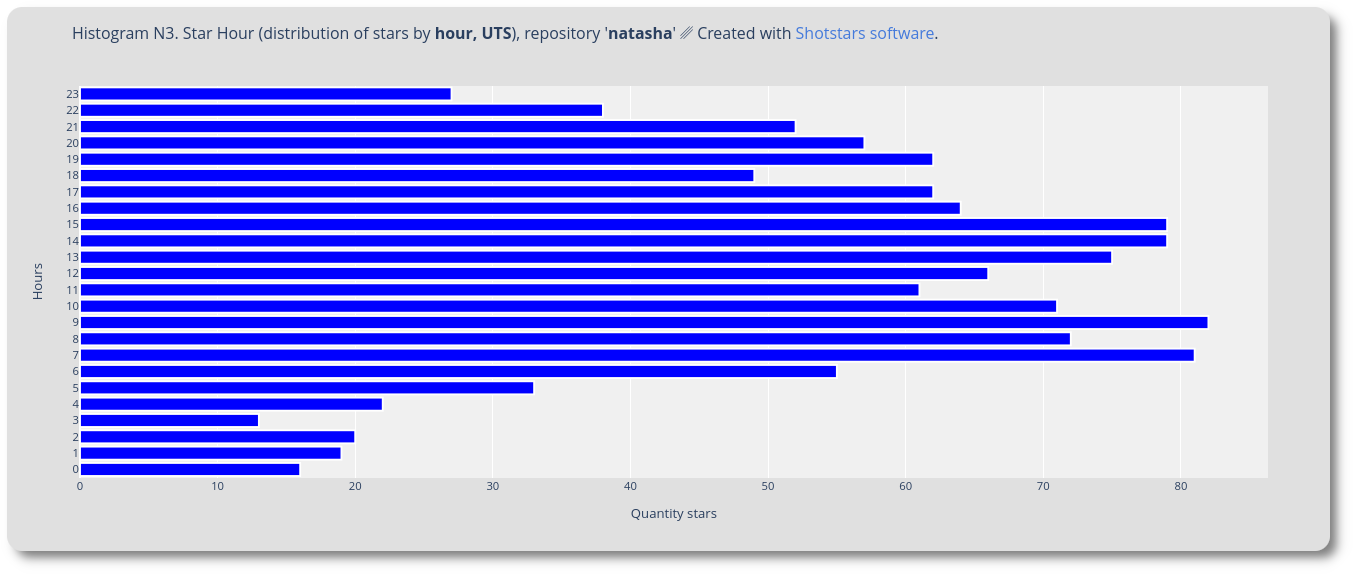
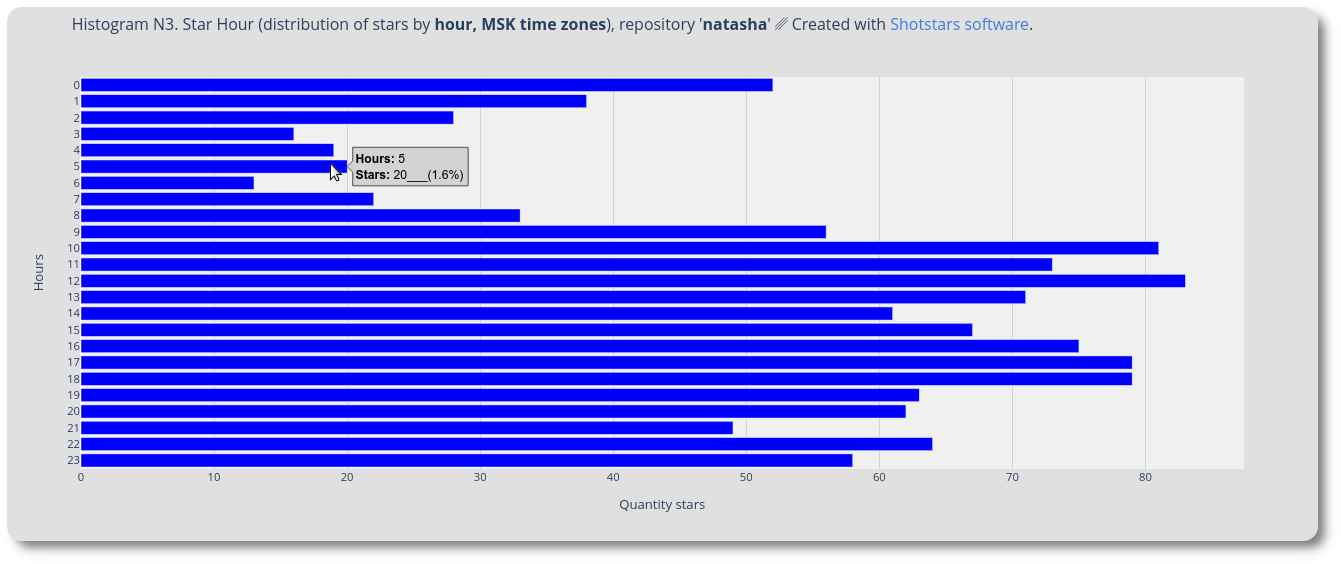
new version 4.6
— In the Html report, a counter also appeared on the 'open graph' button for calculating
gone stars, for example '0' means the graph was not created, and not an error when opening
the browser tab.

— Added a new histogram to the HTML report: cumulative "day of week" star set.

— Added a new metric to the CLI: 'Most-of-stars-d.w. / Smallest-of-stars-d.w.'.

— Reverse of the "Y" scale in the "star hour" histogram, the reason is unification:
the "star hour" and "star day" histograms are read from top to bottom.

— Added percentage calculation to all histograms when selecting a column.

— Added small banner for compressed CLI.

— An Easter egg has been added to the software.
(If you try to parse something related to the project itself as a goal, then...)

diff --git a/shotstars/shotstars.py b/shotstars/shotstars.py
@@ -16,6 +16,7 @@ import signal
 import statistics
 import subprocess
 import sys
+import textwrap
 import time
 import webbrowser
 
@@ -36,7 +37,7 @@ local_tzone = time.tzname[time.localtime().tm_isdst]
 Android = True if hasattr(sys, 'getandroidapilevel') else False
 Windows = True if sys.platform == 'win32' else False
 Linux = True if Android is False and Windows is False else False
-__version__ = "v4.5a2"
+__version__ = "v4.6"
 
 
 if os.get_terminal_size().columns > 100 and os.get_terminal_size().lines > 34:
@@ -74,13 +75,18 @@ SSSSSSS     S:::::S  t::::::tttt:::::ta::::a    a:::::a r:::::r            s::::
 S::::::SSSSSS:::::S  tt::::::::::::::ta:::::aaaa::::::a r:::::r            s::::::::::::::s
 S:::::::::::::::SS     tt:::::::::::tt a::::::::::aa:::ar:::::r             s:::::::::::ss
  SSSSSSSSSSSSSSS         ttttttttttt    aaaaaaaaaa  aaaarrrrrrr              sssssssssss"""
-else:
+elif os.get_terminal_size().columns > 49:
     banner = r"""
  ____  _           _     ____  _
 / ___|| |__   ___ | |_  / ___|| |_ __ _ _ __ ___
 \___ \| '_ \ / _ \| __| \___ \| __/ _` | '__/ __|
  ___) | | | | (_) | |_   ___) | || (_| | |  \__ \
 |____/|_| |_|\___/ \__| |____/ \__\__,_|_|  |___/"""
+else:
+    banner = r"""
+ __           __           
+(_ |_  _ _|_ (_ _|_ _. _ _ 
+__)| )(_) |_ __) |_(_|| _)"""
 
 
 # Функции...
@@ -114,7 +120,7 @@ def main_cli():
                 try:
                     r_east = requests.get(url="https://pepy.tech/projects/shotstars?timeRange=threeMonths&category=version" + \
                                               "&includeCIDownloads=true&granularity=daily&viewType=line", 
-                                          headers = {'User-Agent': f'Mozilla/5.0 (X11; Linux x86_64; rv:' + \
+                                          headers = {'User-Agent': 'Mozilla/5.0 (X11; Linux x86_64; rv:' + \
                                                      f'{random.randint(119, 127)}.0) Gecko/20100101 Firefox/121.0'}, timeout=7)
 
                     r_east_ = re.search(r'totalDownloads\\":(\d+)', r_east.text)
@@ -126,8 +132,8 @@ def main_cli():
                                       justify="center")
                         print('')
                 except Exception as e:
-                    console.print(f"[bold red][!] Network connection failure (Internet Censorship?),\n" + \
-                                  f"    unable to receive data.\n\nexit.[/bold red]")
+                    format_message1 = '[!] Network connection failure (Internet Censorship?), unable to receive data. Exit.'
+                    console.print(f"[bold red]{format_text(format_message1)}[/bold red]")
             shutil.rmtree(path, ignore_errors=True)
             win_exit()
         if url_repo.lower() == "history" or url_repo.lower() == "his":
@@ -196,6 +202,9 @@ def screen_banner():
 
     console.print(f"[yellow]{banner}[/yellow]\n{__version__}, author: https://github.com/snooppr\n")
 
+
+def format_text(text):
+    return textwrap.fill(text, width=os.get_terminal_size()[0], subsequent_indent=" " * 4)
 
 def cross_user_detect(base_users):
     """
@@ -292,7 +301,9 @@ def calc_stars(aggregated_data):
     return dates_for_plot, counts_for_plot
 
 
-def generate_plots(aggregated_data, source_filename, months_stars, years_stars, hours_stars, mean_year, mean_days, dif_date):
+def generate_plots(aggregated_data, source_filename, day_week_stars,
+                   months_stars, years_stars, hours_stars,
+                   mean_year, mean_days, dif_date):
     """Генерация CLI и HTML графиков"""
     if not aggregated_data:
         return None
@@ -308,8 +319,9 @@ def generate_plots(aggregated_data, source_filename, months_stars, years_stars, 
 # График для CLI.
     if Windows:
         if base_filename == 'all_new_stars.html':
-            console.print(f"\n[yellow][!] The graph in CLI is built only for OS: GNU/Linux; macOS and Android/Termux.\n" + \
-                          f"    See graph in HTML report.[/yellow]\n")
+            format_message2 = "[!] The graph in CLI is built only for OS: GNU/Linux; macOS and Android/Termux. " + \
+                              "See graph in HTML report."
+            console.print(f"\n[yellow]{format_text(format_message2)}[/yellow]\n")
     else:
         try:
             plt_cli.clear_figure()
@@ -389,40 +401,70 @@ def generate_plots(aggregated_data, source_filename, months_stars, years_stars, 
                                width=None, height=None)
 
             x, y = map(list, zip(*months_stars))
-            fig3 = plt_html.Figure([plt_html.Bar(y=y, x=x, name='Month', opacity=0.90,
-                                    marker=dict(color='orange', line=dict(color='black', width=2)))])
+            perc_m = [round((p / sum(y)) * 100, 1) for p in y]
+            fig3 = plt_html.Figure([plt_html.Bar(y=y, x=x, name='Month', opacity=0.90, customdata=perc_m,
+                                                 hovertemplate=("<b>Month:</b> %{x}<br><b>Stars:</b> %" + \
+                                                                "{y}___(%{customdata}%)<extra></extra>"),
+                                                 marker=dict(color='orange', line=dict(color='grey', width=2)))])
 
             fig3.update_layout(title=f"Histogram N1. Cumulative set of stars by <b>month</b>, repository '<b>{repo}</b>' " + \
                                      f"␥ Created with <a href='https://github.com/snooppr/shotstars'>Shotstars software</a>.",
                                xaxis_title="Month", yaxis_title="Quantity stars",
+                               hoverlabel=dict(bgcolor='lightgray', font_color='black'),
                                plot_bgcolor=plot_bgcolor, paper_bgcolor=paper_bgcolor)
 
             x, y = map(list, zip(*years_stars))
-            fig4 = plt_html.Figure([plt_html.Bar(y=y, x=x, name='Year',
-                                   marker=dict(color='orange', line=dict(color='grey', width=4)))])
+            perc_y = [round((p / sum(y)) * 100, 1) for p in y]
+            fig4 = plt_html.Figure([plt_html.Bar(y=y, x=x, name='Year', customdata=perc_y,
+                                                 hovertemplate=("<b>Year:</b> %{x}<br><b>Stars:</b> %" + \
+                                                                "{y}___(%{customdata}%)<extra></extra>"),
+                                                 hoverlabel=dict(bgcolor='lightgray', font_color='black'),
+                                                 marker=dict(color='#ff9200', line=dict(color='black', width=4)))])
 
             if dif_date > 365:
                 fig4.add_trace(plt_html.Scatter(x=x, y=[mean_year] * len(x), mode='lines',
-                               name=f'mean = {round(mean_year, 1)} stars / year',
-                               line=dict(color='red', width=3)))
+                                                name=f'mean = {round(mean_year, 1)} stars / year',
+                                                line=dict(color='red', width=3)))
 
             fig4.update_layout(title=f"Histogram N2. Cumulative set of stars by <b>year</b>, repository '<b>{repo}</b>' " + \
                                      f"␥ Created with <a href='https://github.com/snooppr/shotstars'>Shotstars software</a>.",
                                xaxis_title="Year", yaxis_title="Quantity stars", xaxis=dict(dtick=1, tickmode='linear'),
+                               hoverlabel=dict(bgcolor='lightgray', font_color='black'),
                                barmode='overlay', plot_bgcolor=plot_bgcolor, paper_bgcolor=paper_bgcolor)
 
 
             x, y = map(list, zip(*hours_stars))
-            fig5 = plt_html.Figure([plt_html.Bar(y=x, x=y, name='Hours', orientation='h',
-                                    hovertemplate=("Hours: %{y}<br>Stars: %{x}<extra></extra>"),
-                                    marker=dict(color='blue'))])
+            perc_h = [round((p / sum(y)) * 100, 1) for p in y]
+            fig5 = plt_html.Figure([plt_html.Bar(y=x, x=y, name='Hours', orientation='h', customdata=perc_h,
+                                                 hovertemplate=("<b>Hours:</b> %{y}<br><b>Stars:</b> %" + \
+                                                                "{x}___(%{customdata}%)<extra></extra>"),
+                                                 marker=dict(color='blue'))])
 
             fig5.update_layout(title=f"Histogram N3. Star Hour (distribution of stars by <b>hour, {local_tzone} time zones</b>), " + \
                                      f"repository '<b>{repo}</b>' " + \
                                      f"␥ Created with <a href='https://github.com/snooppr/shotstars'>Shotstars software</a>.",
-                               xaxis_title="Quantity stars", yaxis_title="Hours", yaxis=dict(dtick=1, tickmode='linear'),
+                               xaxis_title="Quantity stars", yaxis_title="Hours",
+                               yaxis=dict(dtick=1, tickmode='linear', autorange='reversed'),
                                xaxis=dict(gridcolor='lightgray'),
+                               hoverlabel=dict(bgcolor='lightgray', font_color='black'),
                                plot_bgcolor=plot_bgcolor, paper_bgcolor=paper_bgcolor)
+
+
+            x, y = map(list, zip(*day_week_stars))
+            perc_dw = [round((p / sum(y)) * 100, 1) for p in y]
+            fig6 = plt_html.Figure([plt_html.Bar(y=x, x=y, name='Day of the week', orientation='h', customdata=perc_dw,
+                                                 hovertemplate=("<b>Day of the week:</b> %{y}<br><b>Stars:</b> %" + \
+                                                                "{x}___(%{customdata}%)<extra></extra>"),
+                                                 marker=dict(color='#4e00ff'))])
+
+            fig6.update_layout(title=f"Histogram N4. Star Day (distribution of stars by <b>day of the week</b>), " + \
+                                     f"repository '<b>{repo}</b>' " + \
+                                     f"␥ Created with <a href='https://github.com/snooppr/shotstars'>Shotstars software</a>.",
+                               xaxis_title="Quantity stars", yaxis_title="day of the week",
+                               yaxis=dict(dtick=1, tickmode='linear', autorange='reversed'),
+                               xaxis=dict(gridcolor='lightgray'),
+                               hoverlabel=dict(bgcolor='lightgray', font_color='black'),
+                               plot_bgcolor=plot_bgcolor, paper_bgcolor=paper_bgcolor)      
 
 
             plot_html = fig.to_html(full_html=False, include_plotlyjs=False)
@@ -430,6 +472,7 @@ def generate_plots(aggregated_data, source_filename, months_stars, years_stars, 
             plot_html3 = fig3.to_html(full_html=False, include_plotlyjs=False)
             plot_html4 = fig4.to_html(full_html=False, include_plotlyjs=False)
             plot_html5 = fig5.to_html(full_html=False, include_plotlyjs=False)
+            plot_html6 = fig6.to_html(full_html=False, include_plotlyjs=False)
 
             with open(f"{path}/graph_{base_filename}", 'w', encoding='utf-8') as f:
                 f.write(f"""
@@ -475,6 +518,10 @@ def generate_plots(aggregated_data, source_filename, months_stars, years_stars, 
 
     <div class="plot-container">
         {plot_html5}
+    </div>
+
+    <div class="plot-container">
+        {plot_html6}
     </div>
 </body>
 </html>""")
@@ -966,24 +1013,35 @@ def parsing(diff=False):
         marketing_color = none_statistic
         fuckstars = none_statistic
 
-## Расчет месяцев с самым высоким и низким трафиком по звездам / Расчет по годам.
+## Расчет периодов с самым высоким и низким трафиком по звездам.
+    days_of_week = ["Monday", "Tuesday", "Wednesday", "Thursday",
+                    "Friday", "Saturday", "Sunday"]
     months = ["Jan", "Feb", "Mar", "Apr", "May", "Jun",
               "Jul", "Aug", "Sep", "Oct", "Nov", "Dec"]
+
+    day_week_sum = defaultdict(int)
     month_sum = defaultdict(int)
     years_sum = defaultdict(int)
+
     for date_str, _star in sort_alldate_stars:
         dt = datetime.datetime.strptime(date_str, '%Y-%m-%d')
+        day_week_number = dt.weekday()
         month_number = dt.month
         year_number = dt.year
         month_sum[month_number] += _star
         years_sum[year_number] += _star
+        day_week_sum[day_week_number] += _star
 
+    cnt_day_week_sum = Counter(day_week_sum)
     cnt_month_sum = Counter(month_sum)
     cnt_year_sum = Counter(years_sum)
+    high_stars_day_week = days_of_week[cnt_day_week_sum.most_common()[0][0]]
+    low_stars_day_week = days_of_week[cnt_day_week_sum.most_common()[-1][0]]
     high_stars_month = months[cnt_month_sum.most_common()[0][0] - 1]
     low_stars_month = months[cnt_month_sum.most_common()[-1][0] - 1]
 
-# Data для 3-го графика.
+# Data для n-го графика.
+    day_week_stars = [(days_of_week[dw_], s_) for dw_, s_ in sorted(day_week_sum.items(), key=lambda item: item[0])]
     months_stars = [(months[m_-1], s_) for m_, s_ in sorted(month_sum.items(), key=lambda item: item[0])]
     years_stars = [(y_, s_) for y_, s_ in sorted(years_sum.items(), key=lambda item: item[0])]
 
@@ -1026,6 +1084,8 @@ def parsing(diff=False):
 ## Печать инфострок.
     console.print(f"[cyan]Peak-stars-in-date::[/cyan] {max_stars} stars / {in_date}", highlight=False)
     console.print(f"[cyan]The-trend-of-adding-stars (forecasting)::[/cyan] {trend}", highlight=False)
+    console.print(f"[cyan]Most-of-stars-d.w. / Smallest-of-stars-d.w.::[/cyan] " + \
+                  f"{high_stars_day_week} / {low_stars_day_week}", highlight=False)    
     console.print(f"[cyan]Most-of-stars-month / Smallest-of-stars-month::[/cyan] " + \
                   f"{high_stars_month} / {low_stars_month}", highlight=False)
 
@@ -1112,7 +1172,7 @@ transition: transform 0.15s}
             file_html.write(f"\n<a class='but' href='file://{path}/all_new_stars.html' " + \
                             "title='open history adding stars'>open history</a>\n" + \
                             f"\n<a class='but' href='file://{path}/graph_all_new_stars.html' " + \
-                            "title='open all history adding stars'>open graphs (5)</a>\n" + \
+                            "title='open all history adding stars'>open graphs (6)</a>\n" + \
                             "</div>\n\n<div class='textcols-item'>\n<h4 style='color:#fc3f1d'>" + \
                             f"💫 Gone stars (-{per_stars_dn}%):</h4>\n")
 
@@ -1131,6 +1191,7 @@ transition: transform 0.15s}
                             f"✨ GitHub-rating:: {stars} stars<br>\n" + \
                             f"🌟 Peak-stars-in-date:: {max_stars} / {in_date}<br>\n" + \
                             f"📈 The-trend-of-adding-stars (forecasting):: {trend}<br>\n" + \
+                            f"📅 Most-of-stars-d.w. / Smallest-of-stars-d.w.:: {high_stars_day_week} / {low_stars_day_week}<br>\n" + \
                             f"📅 Most-of-stars-month / Smallest-of-stars-month:: {high_stars_month} / {low_stars_month}<br>\n" + \
                             f"📅 Distribution-of-stars-by-month" + \
                             f"{' (' + str(private_stars) + ' private stars)' if private_stars != 0 else ''} " + \
@@ -1185,7 +1246,7 @@ transition: transform 0.15s}
             data = agregated_date(html_file)
             if isinstance(html_file, list):
                 html_file = f"{path}/all_new_stars.html"
-            generate_plots(data, html_file, months_stars, years_stars, hours_stars, mean_year, mean_days, dif_date)
+            generate_plots(data, html_file, day_week_stars, months_stars, years_stars, hours_stars, mean_year, mean_days, dif_date)
 
 # Искать пересеченных пользователей.
         common_users_found = cross_user_detect(set(lst_new))

diff --git a/README.md b/README.md
@@ -24,7 +24,7 @@ Shotstars will care about and count specifically those GitHub users who have rem
 - [X] Shotstars will also provide a short description of the repository.  
 - [X] Shotstars offers a scan history with a selection of previously registered projects for quick checking.  
 - [X] Shotstars generates CLI/HTML reports *(stats, time periods, duplicate user activity, urls and json)*.  
-- [X] Shotstars creates graphs and histograms *(all star history by date, by month, by year, by hour, cumulative set of stars)*.  
+- [X] Shotstars creates graphs and histograms *(all star history by date, by month, by year, by hour, by days of the week, cumulative set of stars)*.  
 - [X] Shotstars can simulate results, documented hack: a function designed to check the utility's operation *(to make sure)* on dead/stable repositories without moving stars.  
 - [X] Shotstars finds users that overlap across Github projects, including those with hidden/private profiles.  
 - [X] Shotstars calculates to the minute and displays the time when the github rescan restriction is lifted *(if token is not used)*.  
@@ -34,7 +34,7 @@ Shotstars will care about and count specifically those GitHub users who have rem
  ---
 
 ## ⌨ Native Installation  
-![Static Badge](https://img.shields.io/badge/latest%20v4.5a1-430094?link=https%3A%2F%2Fraw.githubusercontent.com%2Fsnooppr%2Fshotstars%2Frefs%2Fheads%2Fmain%2Fchangelog)  
+![Static Badge](https://img.shields.io/badge/latest%20v4.6-430094?link=https%3A%2F%2Fraw.githubusercontent.com%2Fsnooppr%2Fshotstars%2Frefs%2Fheads%2Fmain%2Fchangelog)  
 
 
 ```
@@ -120,7 +120,7 @@ Shotstars позволяет следить со стороны <u>за любы
 - [X] Shotstars также предоставит краткое описание репозитория.  
 - [X] Shotstars предлагает для быстрой проверки историю сканирований с выбором ранее учтенных проектов.
 - [X] Shotstars генерирует CLI/HTML отчеты *(статистика, периоды времени, дублирующая активность пользователей, url's и json)*.  
-- [X] Shotstars создает графики и гистограммы *(вся история звезд по дате/времени: по месяцам, по годам, по часам, кумулятивный набор звезд)*.  
+- [X] Shotstars создает графики и гистограммы *(вся история звезд по дате/времени: по месяцам, по годам, по часам, по дням недели, кумулятивный набор звезд)*.  
 - [X] Shotstars умеет имитировать результаты, задокументированный хак: функция, призванная проверить работу утилиты *(удостовериться)* на мертвых/стабильных репозиториях без движения звезд. 
 - [X] Shotstars находит пересекающихся у Github-проектов пользователей, в т.ч. и тех, у кого профиль скрыт/приватный.  
 - [X] Shotstars рассчитывает с точностью до минуты и отображает время снятия github-ограничения на повторные сканирования *(если не используется token)*.  
@@ -184,11 +184,15 @@ Shotstars is awesome, it sees everything. Github says the repository hasn't had 
 
 
 <img src="https://raw.githubusercontent.com/snooppr/shotstars/main/images/graphs.png" />  
-Comparison of two repositories based on stellar history. It is clear that the peak of popularity of the first repository has long passed, the development has gone into decline (forks). The second repository is a legend and is steadily gaining popularity.  
+<p>Comparison of two repositories based on stellar history. It is clear that the peak of popularity of the first repository has long passed, the development has gone into decline (forks). The second repository is a legend and is steadily gaining popularity.</p>  
 
 
 <img src="https://raw.githubusercontent.com/snooppr/shotstars/main/images/graphs2.png" />  
-Starry hour. Repository from location RU. It is clear that its audience is European, in the morning hours, at night, much fewer stars come.  
+<p>Starry hour. Repository from location RU. It is clear that its audience is European, in the morning hours, at night, much fewer stars come.</p>  
+
+
+<img src="https://raw.githubusercontent.com/snooppr/shotstars/main/images/graphs3.png" />  
+<p>Starry day of week. From the graph it is clear that stars come intensively at the beginning and end of the working week for this repository. Oh, and outside the US, people start their workweek according to <a href="https://github.com/orgs/community/discussions/42104">international norms</a> — on Monday, not Sunday.</p>  
 
  ---
 
@@ -199,6 +203,8 @@ Starry hour. Repository from location RU. It is clear that its audience is Europ
 + **"Peak-stars-in-date"** — The metric displays the date (per day) on which the maximum number of stars was received.  
 
 + **"The-trend-of-adding-stars (forecasting)"** — The metric displays the predicted increase in stars per day based on the repository history and algorithm.  
+
++ **"Most-of-stars-d.w. / Smallest-of-stars-d.w."** — The metric displays the calculation of two days of the week for the entire history of the repository (the most profitable day of the week by stars and the day with the least number of stars, mod/anti-mod).  
 
 + **"Most-of-stars-month / Smallest-of-stars-month"** — The metric displays the calculation of two months in the entire history of the repository (the most profitable month by stars and the month with the least stars, mode / anti-mode).  
 
@@ -220,7 +226,7 @@ Starry hour. Repository from location RU. It is clear that its audience is Europ
 
 + **"Gone stars"** — The metric displays those users: who removed their stars from the repository; or deleted their account from the Github platform; or switched their profile to "private" mode - such a profile, like a deleted one, can lead to "404" by link, i.e. Github (not always) completely hides all user activity and their personal page, but such an account can conduct activity that is almost never displayed anywhere except by the account owner (for example, only reactions are displayed). Gone stars for the repository for the period from the penultimate scan to the last scan. The characteristic is calculated based on the frequency of repository scans.  
 
-+ **"cross-users"** — The metric only displays those overlapping users that overlap in the scanned repositories relative to a specific scanned repository.  
++ **"Cross-users"** — The metric only displays those overlapping users that overlap in the scanned repositories relative to a specific scanned repository.  
 
  ---
 
